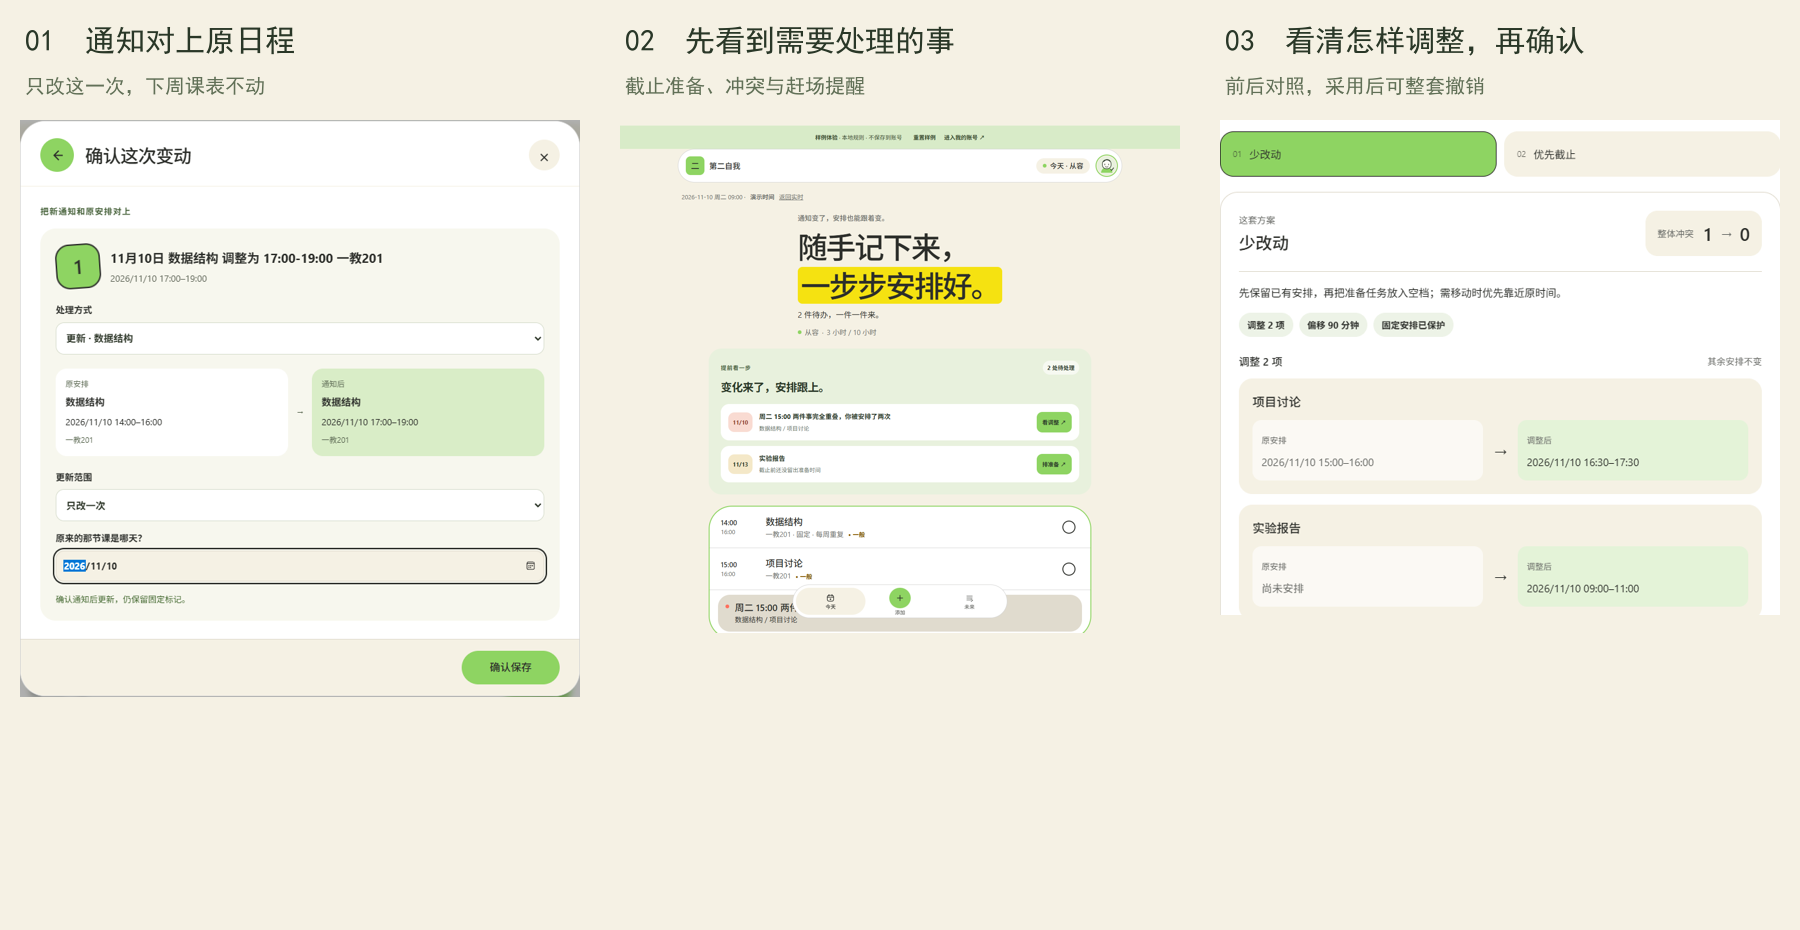
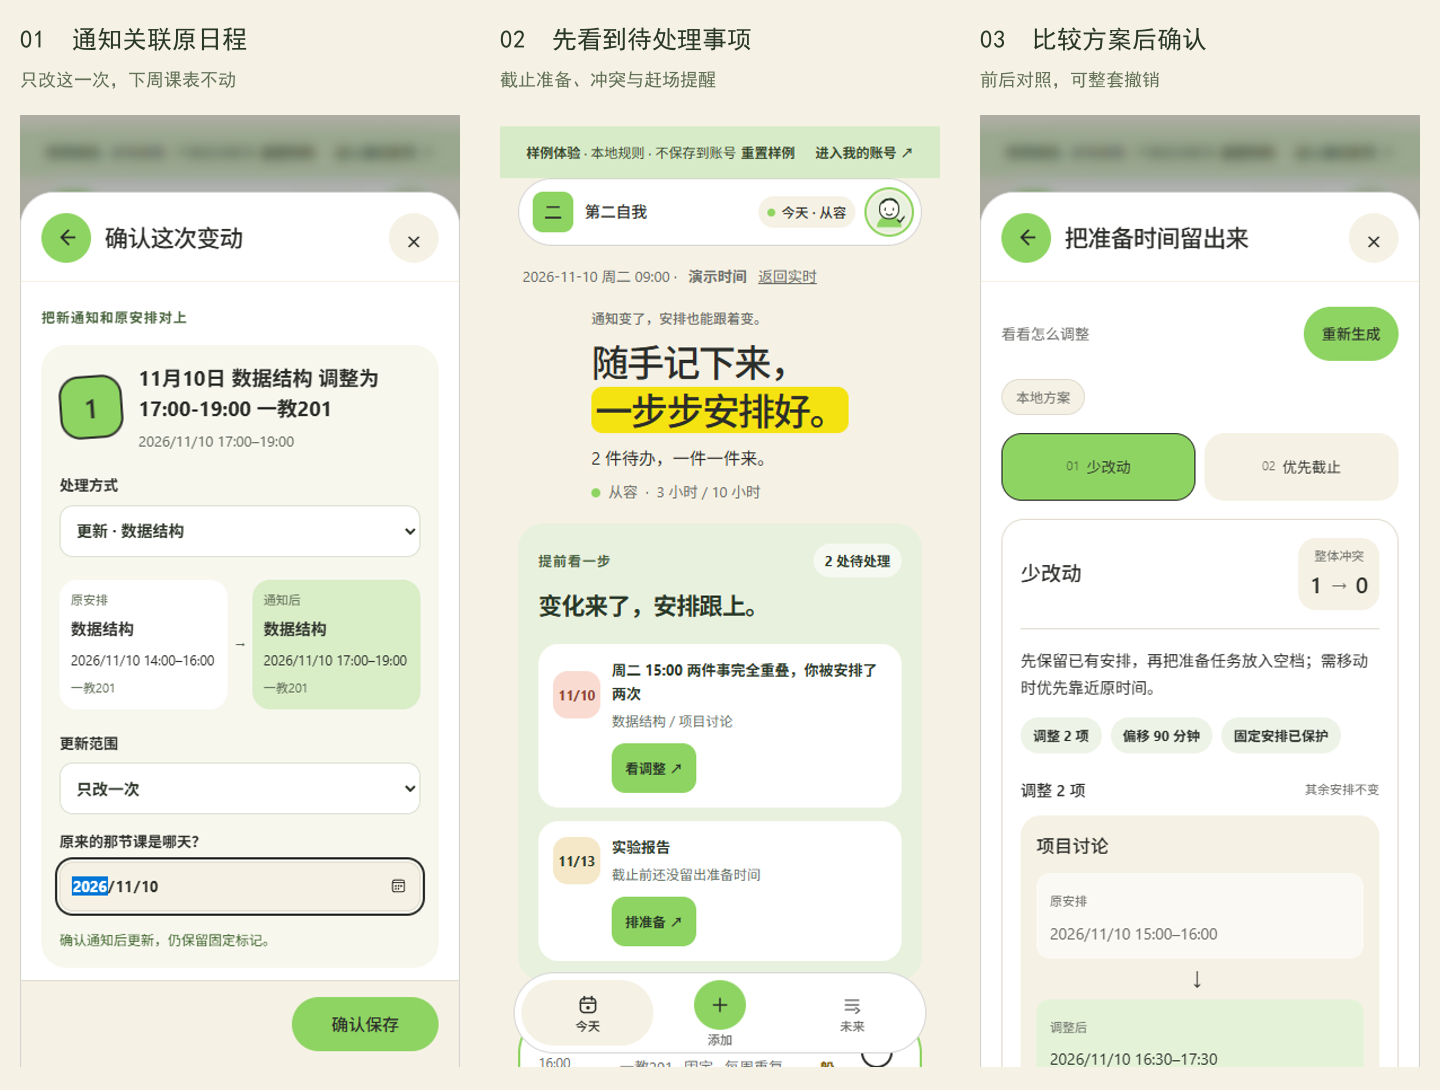
fix: align test timezone with application and refresh viewport captures

diff --git a/docs/SPEC-冲突检测与重排交互.md b/docs/SPEC-冲突检测与重排交互.md
@@ -1,6 +1,6 @@
 # 冲突与重排：当前实现索引
 
-2026-10-24。当前契约以src/domain/schemas/task.ts与src/domain/schemas/conflict.ts为准，完整设计见ARCHITECTURE.md；本文件不另维护第二份字段定义。
+2026-11-14。当前契约以src/domain/schemas/task.ts与src/domain/schemas/conflict.ts为准，完整设计见ARCHITECTURE.md；本文件不另维护第二份字段定义。
 
 四类规则：overlap、buffer、overload、deadline。时间区间半开；周期按检测窗口与学期设置展开；已完成的周期实例按天排除。
 
@@ -8,4 +8,4 @@
 
 检测入口src/domain/conflicts.ts；周期入口time.ts；候选与指标reflow.ts；共同护栏planGuard.ts。边界回归见tests/domain/final-integration.test.ts及原有domain测试。
 
-规则参数不是健康建议；保守启发式不保证全局最优；周期单次例外与跨时区尚不支持。
+规则参数不是健康建议；保守启发式不保证全局最优；周期单次例外通过排除原日期与新增关联实例实现；跨时区尚未验证。
